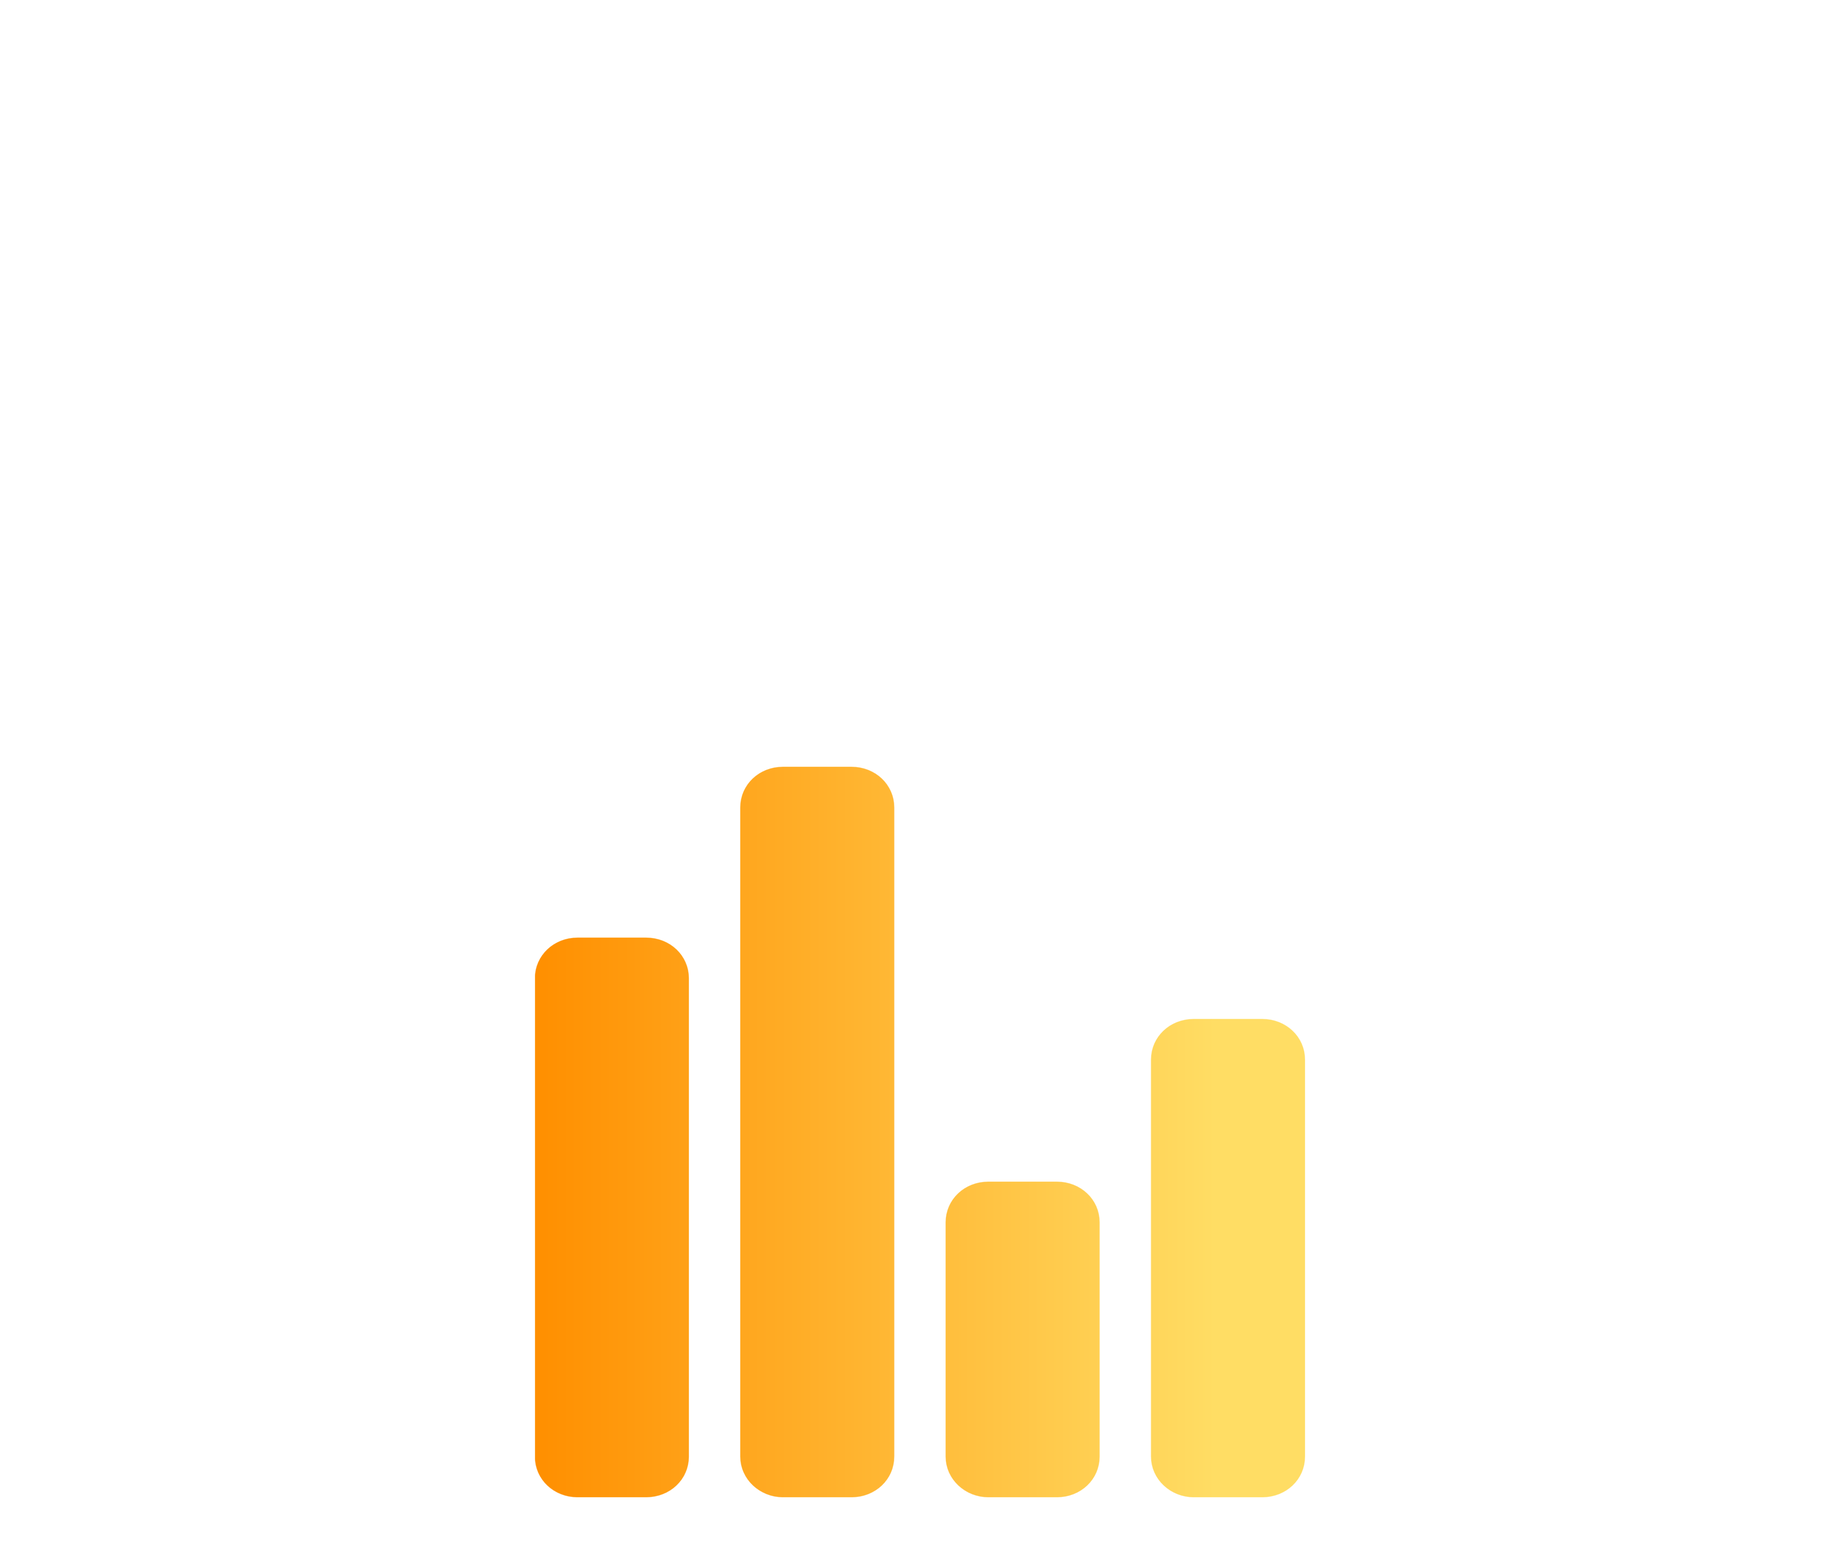
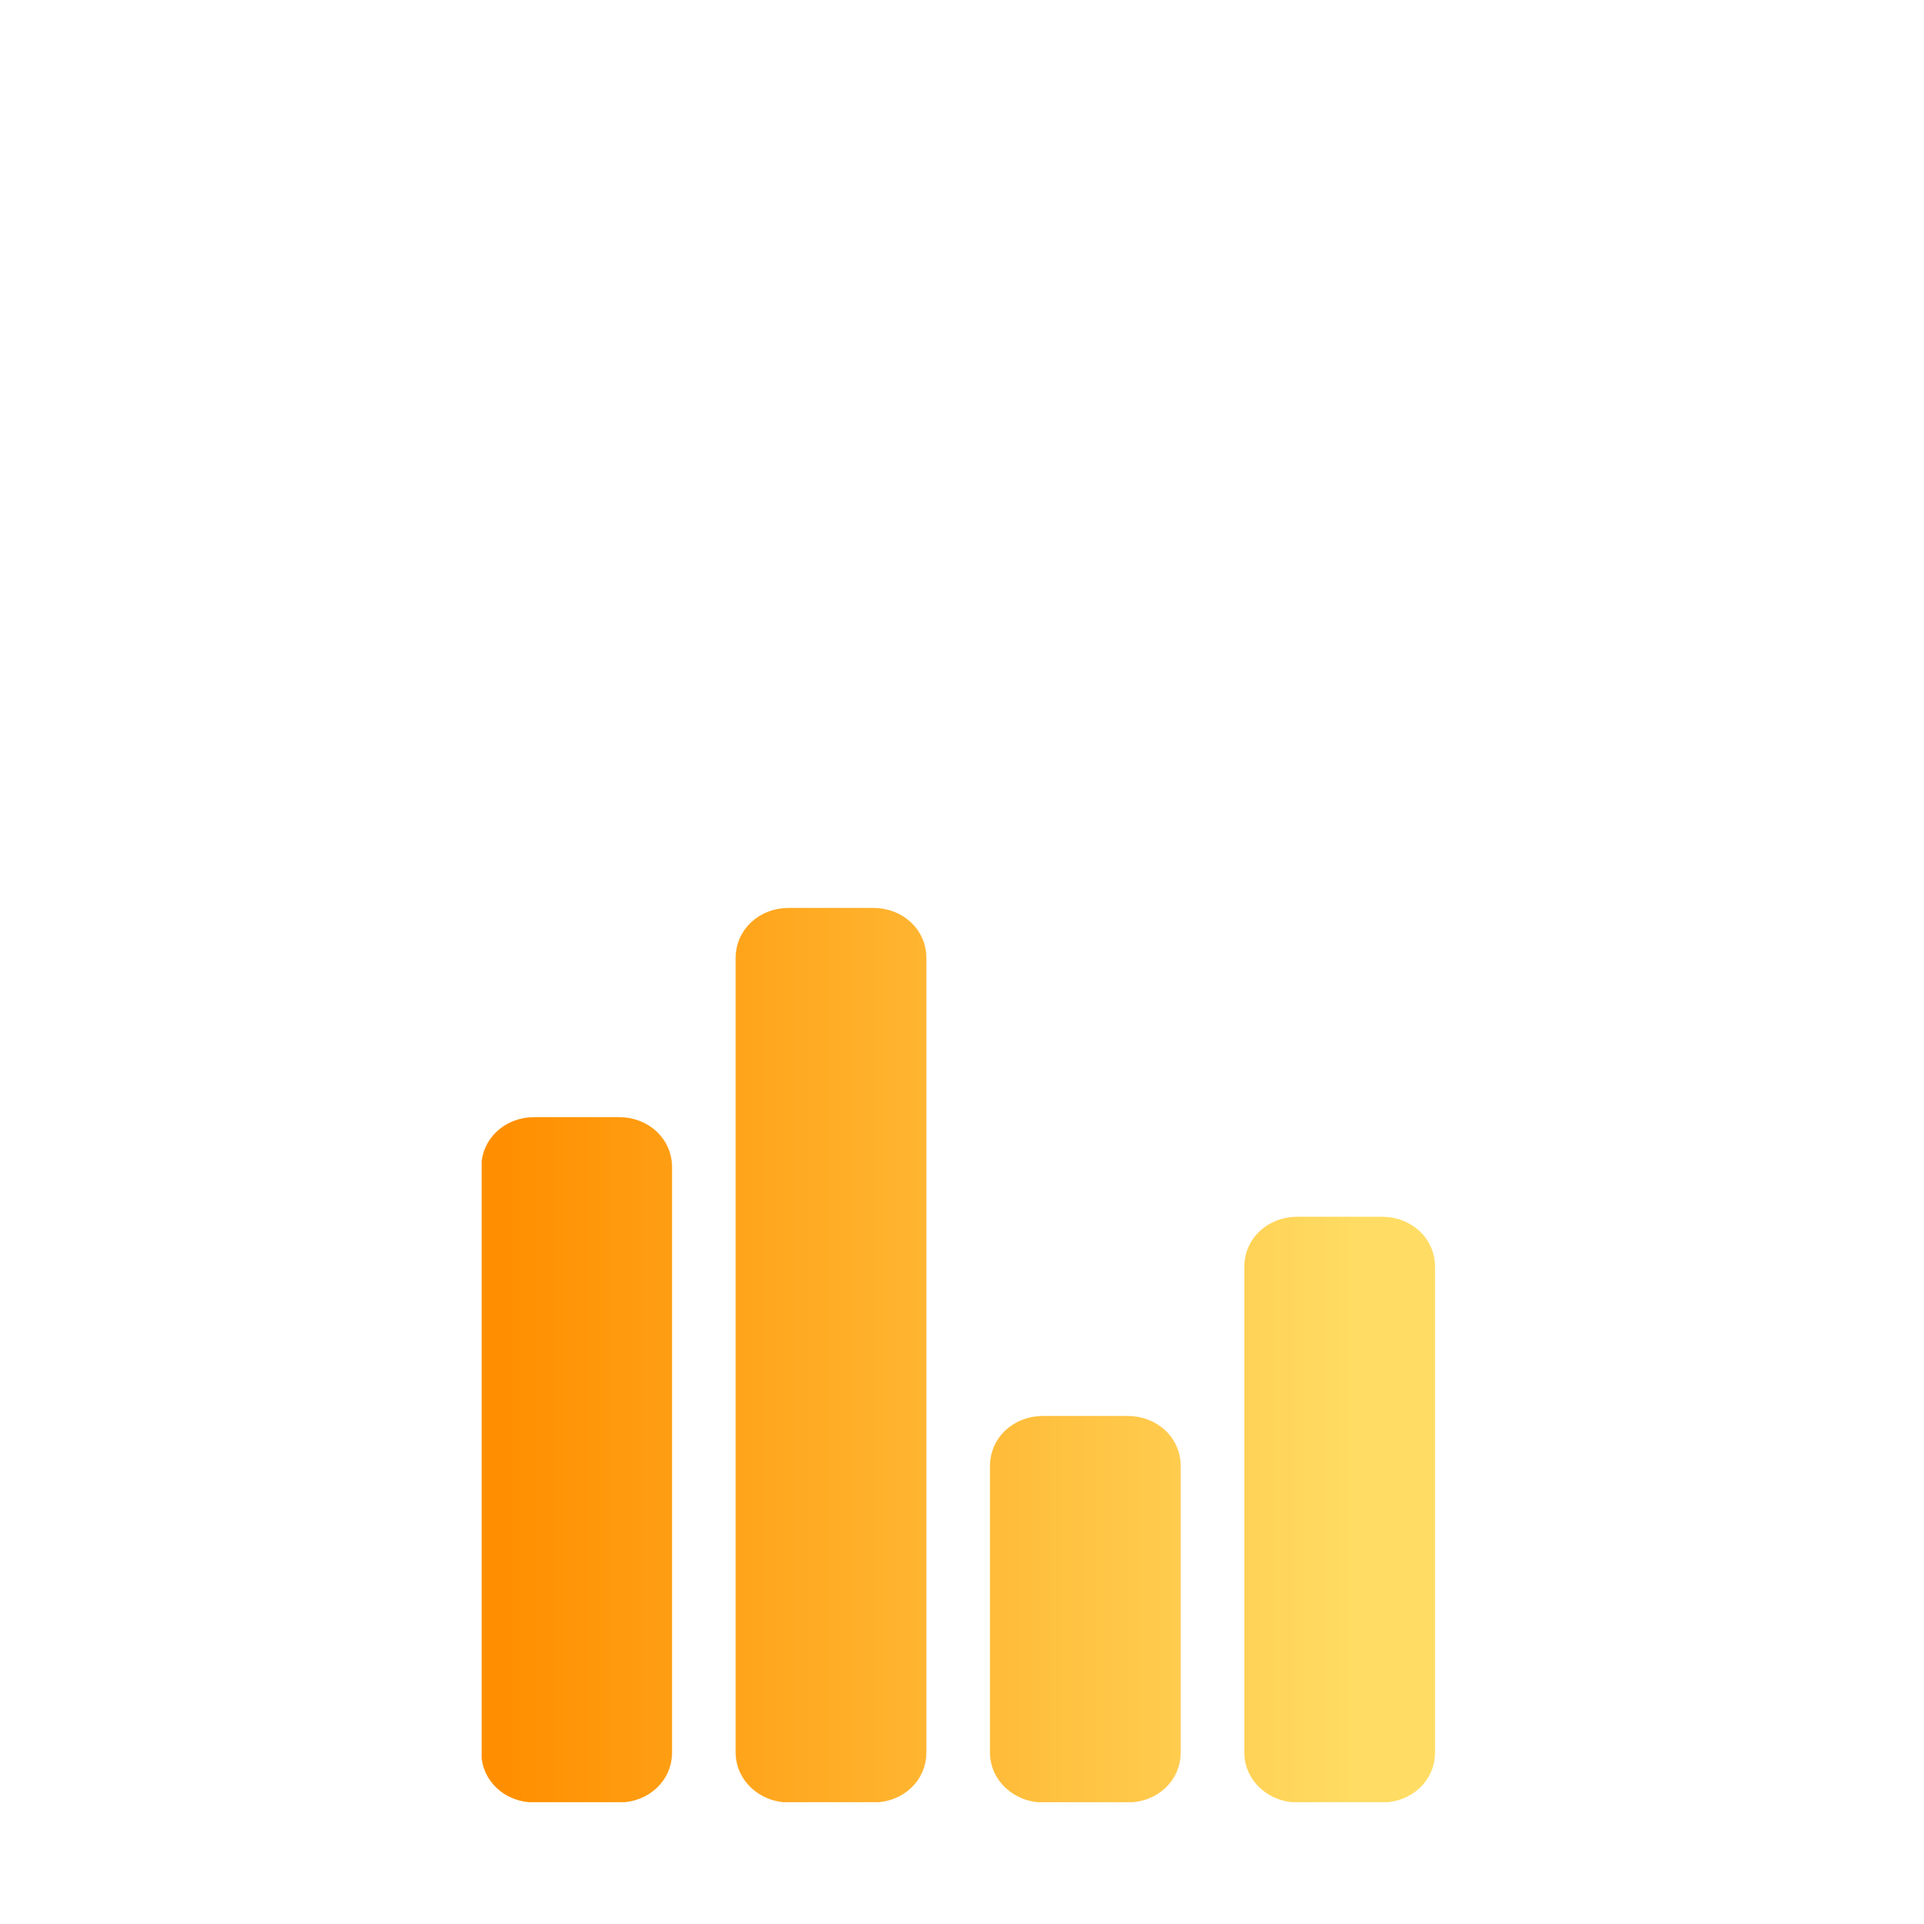
Mofifcation du template
+ modification du logo
+ ajustement du css de la page home
+ ajout des favicons
+ ajout de pochette d'album

Changed region(s): [[0.2499, 0.4668, 0.5935, 0.9958], [0.4998, 0.6224, 0.7497, 0.9958]]

diff --git a/public/styles/main_styles.css b/public/styles/main_styles.css
@@ -392,7 +392,7 @@ section
 {
 	vertical-align: top;
 	margin: 4px 0 0 12px;
-	width: 46px;
+	width: 38px;
 }
 .main_nav ul li:not(:last-of-type)
 {
@@ -705,7 +705,6 @@ section
 }
 .home_title h1
 {
-	font-size: 44px;
 	color: #FFFFFF;
 	font-weight: 500;
 }
@@ -715,7 +714,7 @@ section
 }
 .home_text p
 {
-	font-size: 17px;
+	font-size: 18px;
 	font-weight: 300;
 	color: #FFFFFF;
 	line-height: 1.5;

diff --git a/public/styles/about.css b/public/styles/about.css
@@ -406,7 +406,8 @@ section
 .logo a img
 {
 	vertical-align: top;
-	margin-left: 5px;
+	margin: 4px 0 0 12px;
+	width: 38px;
 }
 .main_nav ul li:not(:last-of-type)
 {

diff --git a/public/styles/blog.css b/public/styles/blog.css
@@ -444,7 +444,8 @@ section
 .logo a img
 {
 	vertical-align: top;
-	margin-left: 5px;
+	margin: 4px 0 0 12px;
+	width: 38px;
 }
 .main_nav ul li:not(:last-of-type)
 {

diff --git a/public/styles/contact.css b/public/styles/contact.css
@@ -444,7 +444,8 @@ section
 .logo a img
 {
 	vertical-align: top;
-	margin-left: 5px;
+	margin: 4px 0 0 12px;
+	width: 38px;
 }
 .main_nav ul li:not(:last-of-type)
 {

diff --git a/public/styles/episode.css b/public/styles/episode.css
@@ -436,7 +436,8 @@ section
 .logo a img
 {
 	vertical-align: top;
-	margin-left: 5px;
+	margin: 4px 0 0 12px;
+	width: 38px;
 }
 .main_nav ul li:not(:last-of-type)
 {

diff --git a/public/styles/episodes.css b/public/styles/episodes.css
@@ -404,7 +404,8 @@ section
 .logo a img
 {
 	vertical-align: top;
-	margin-left: 5px;
+	margin: 4px 0 0 12px;
+	width: 38px;
 }
 .main_nav ul li:not(:last-of-type)
 {

diff --git a/public/styles/about_responsive.css b/public/styles/about_responsive.css
@@ -214,8 +214,9 @@
 	}
 	.logo a img
 	{
-		margin-left: 10px;
-		height: 74%;
+		margin: 2px 0 0 10px;
+		height: 80%;
+		width: auto;
 	}
 	.header_right
 	{

diff --git a/public/styles/blog_responsive.css b/public/styles/blog_responsive.css
@@ -200,8 +200,9 @@
 	}
 	.logo a img
 	{
-		margin-left: 10px;
-		height: 74%;
+		margin: 2px 0 0 10px;
+		height: 80%;
+		width: auto;
 	}
 	.header_right
 	{

diff --git a/public/styles/contact_responsive.css b/public/styles/contact_responsive.css
@@ -195,8 +195,9 @@
 	}
 	.logo a img
 	{
-		margin-left: 10px;
-		height: 74%;
+		margin: 2px 0 0 10px;
+		height: 80%;
+		width: auto;
 	}
 	.header_right
 	{

diff --git a/public/styles/episode_responsive.css b/public/styles/episode_responsive.css
@@ -236,8 +236,9 @@
 	}
 	.logo a img
 	{
-		margin-left: 10px;
-		height: 74%;
+		margin: 2px 0 0 10px;
+		height: 80%;
+		width: auto;
 	}
 	.header_right
 	{

diff --git a/public/styles/episodes_responsive.css b/public/styles/episodes_responsive.css
@@ -216,8 +216,9 @@
 	}
 	.logo a img
 	{
-		margin-left: 10px;
-		height: 74%;
+		margin: 2px 0 0 10px;
+		height: 80%;
+		width: auto;
 	}
 	.header_right
 	{

diff --git a/public/styles/responsive.css b/public/styles/responsive.css
@@ -195,8 +195,9 @@
 	}
 	.logo a img
 	{
-		margin-left: 10px;
-		height: 74%;
+		margin: 2px 0 0 10px;
+		height: 80%;
+		width: auto;
 	}
 	.header_right
 	{
